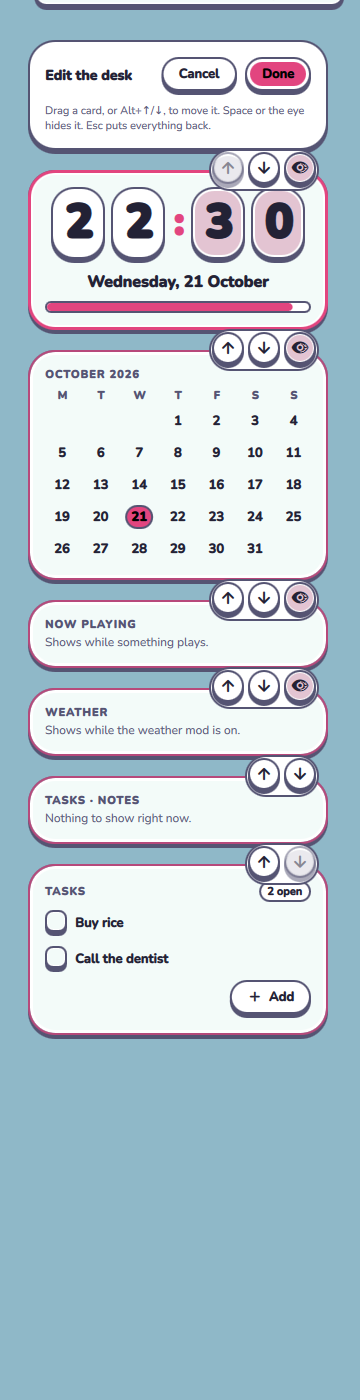
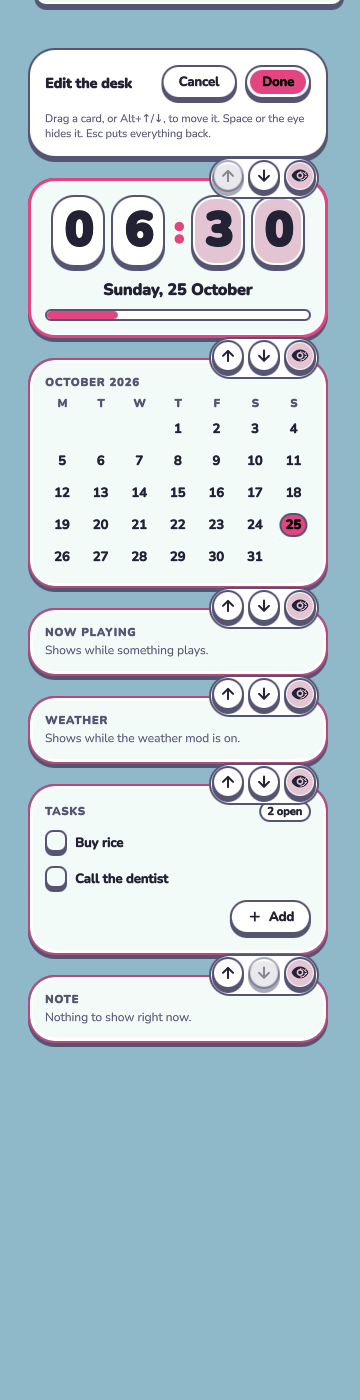
feat(desk): hide any card in edit mode, titles, manifest order, Edit key clear of the clock (I136, I119; K65)
- The eye hides every desk card. A core card writes its own switch (the one Settings shows);
  a mod card writes desktop.hidden. Done sends the order, switches and list as one apply.
  A hidden card keeps its place in edit mode ("Hidden" chip) and is not made outside it (Ma).
- Mod card names come from mod-<id>.desk.<name> (tasks: en and ja).
- A mod's cards follow the manifest's provides order; the qml map sorts its keys.
- The Edit key sits above the first card's padding: it covered the clock's last digit.
- A value forced by managed.toml shows its eye off and says why; a refused save says so.
- ThemeExportStatus: a path under $XDG_CONFIG_HOME outside $HOME reads $XDG_CONFIG_HOME/.
- test-desk.sh: hidden cards by Tab and Space, forced, offline, ja titles; 16 checks, both decors.
- Contract rows 395-397 in docs/CONTRACT-CHANGE.md.

Changed region(s): [[0.0611, 0.0307, 0.9167, 0.7679]]

diff --git a/frontend/surfaces/Desktop.qml b/frontend/surfaces/Desktop.qml
@@ -4,7 +4,6 @@ import Quickshell.Wayland
 import "../core"
 import "../components"
 import "../components/island"
-import "../core/mods.js" as Mods
 
 // Desktop widgets (K43; SekaiPop's desk): cards on the bottom layer, under the windows, on one side of each output —
 // the time as four keys with the date and the day's progress, this month with today marked, what is playing (hidden
@@ -14,12 +13,16 @@ import "../core/mods.js" as Mods
 // Ma: no surface while off; the documents are watched only while the surface is shown; nothing animates on its own —
 // the clock changes when svc.clock's minute patch arrives. Content-sized (K16): the window is the column of cards.
 // Mods add cards (K46, row 120: `desk:<name>` → the mod's `qml/desk/<name>.qml`), each loaded only while the desk is
-// shown, at the column's width; a card sets its own implicitHeight (0 when it has nothing to say).
+// shown, at the column's width; a card sets its own implicitHeight (0 when it has nothing to say). A mod's cards follow
+// the manifest's `provides` order: the `qml` map is sorted by key, so it cannot give one (W36).
 // Order (K48 (4)): the column follows `desktop.order` — core ids and `mod:<id>:<name>` — and the cards it does not list
-// come after, core ones first. Edit mode (SekaiPop "Edit Desktop", macOS "Edit Widgets"; docs/ux/desktop.md v3): the
-// "Edit" key on hover lifts the column over the windows with the keyboard, every card shows (a placeholder says when it
-// shows), drag or Alt+Up/Down reorders, the eye (or Space) hides a core card, and Done writes the order and the
-// switches as one `apply` (one undo step); Escape puts everything back. Nothing is written while editing.
+// come after, core ones first. Hidden (K65, W36): a card is left out while its switch is off (core: `desktop.<card>`,
+// the switch Settings shows) or its id is in `desktop.hidden` (a mod card has no switch of its own).
+// Edit mode (SekaiPop "Edit Desktop", macOS "Edit Widgets"; docs/ux/desktop.md v3–v4): the "Edit" key on hover lifts the
+// column over the windows with the keyboard, every card shows (a placeholder says when it shows; a hidden one says
+// "Hidden"), drag or Alt+Up/Down reorders, the eye (or Space) shows or hides any card, and Done writes the order, the
+// switches and the hidden list as one `apply` (one undo step); Escape puts everything back. Nothing is written while
+// editing.
 PanelWindow {
     id: desk
     required property var modelData
@@ -44,18 +47,23 @@ PanelWindow {
     exclusionMode: ExclusionMode.Ignore
     color: "transparent"
     anchors { top: true; left: desk.onLeft; right: !desk.onLeft }
+    // The Edit key sits above the first card's padding, its bottom 2 px above the keycaps' top (they start at the padding),
+    // so it covers no content of the clock's keys (W36). The window starts `keyLift` above the cards; the cards keep 28 px
+    // under the bar, or the key's clearance from the bar when that is more.
+    readonly property int keyLift: Math.max(0, editKey.height - Theme.pad + 2)
+    readonly property int colTop: Math.max(28, keyLift + 8)
     margins {
-        top: (bars.atTop ? Theme.barH : 0) + 28
+        top: (bars.atTop ? Theme.barH : 0) + colTop - keyLift
         left: (bars.enabled && bars.edge === "left" ? Theme.barH : 0) + 32
         right: (bars.atRight ? Theme.barH : 0) + 32
     }
     implicitWidth: cards.width
-    implicitHeight: Math.max(1, cards.height)
+    implicitHeight: Math.max(1, cards.height + keyLift)
     onOnChanged: if (!on) cancelEdit()
 
     Watch { doc: "svc.clock"; active: desk.visible }
-    Watch { doc: "svc.media"; active: desk.visible && (desk.want("media") || desk.editing) }
-    Watch { doc: "mod.weather"; active: desk.visible && (desk.want("weather") || desk.editing) && desk.weatherMod }
+    Watch { doc: "svc.media"; active: desk.visible && (desk.showsNow("media") || desk.editing) }
+    Watch { doc: "mod.weather"; active: desk.visible && (desk.showsNow("weather") || desk.editing) && desk.weatherMod }
     Watch { doc: "mods"; active: desk.visible }
     readonly property var clock: Store.docs["svc.clock"] || ({})
     readonly property var media: Store.docs["svc.media"] || ({})
@@ -72,13 +80,27 @@ PanelWindow {
         for (var i = 0; i < m.length; i++) if (m[i].id === id) return I18n.tr(m[i].name || id)
         return id
     }
+    // The desk cards of enabled mods as [{mod, provide, url}] in the manifest's `provides` order (the `qml` map is sorted
+    // by key, so it cannot give that order; the mods document lists `provides` as the manifest does). A card with no file
+    // is not listed.
+    function deskCardsOf(doc) {
+        var out = []
+        var list = (doc && doc.mods) || []
+        for (var i = 0; i < list.length; i++) {
+            var m = list[i], q = m.qml || ({}), p = m.provides || []
+            for (var j = 0; j < p.length; j++)
+                if (String(p[j]).indexOf("desk:") === 0 && typeof q[p[j]] === "string" && q[p[j]] !== "")
+                    out.push({ mod: m.id, provide: p[j], url: q[p[j]] })
+        }
+        return out
+    }
 
     // The desk cards of enabled mods as [{id: "mod:<mod>:<name>", url, mod}]. The list is rebuilt only when the URLs
     // change: the `mods` document also changes when a mod starts or stops running (a card's own subscription does that),
     // and a new list would remake every card, which would unsubscribe and resubscribe it, without end.
     readonly property var modsDoc: Store.docs["mods"]
     readonly property string deskKey: desk.visible
-        ? JSON.stringify(Mods.deskCards(desk.modsDoc).map(function (c) {
+        ? JSON.stringify(desk.deskCardsOf(desk.modsDoc).map(function (c) {
             return { id: "mod:" + c.mod + ":" + c.provide.substring(5), url: c.url, mod: c.mod }
         })) : "[]"
     property var modCards: []
@@ -128,13 +150,26 @@ PanelWindow {
     // A layer above the user's (Nix, a forced value) holds the order: edit mode says so and moves nothing (Shōjiki).
     readonly property bool orderLocked: !!orderProv && (!!orderProv.forced_by || (orderProv.source || {}).kind === "forced"
                                                         || (orderProv.source || {}).kind === "nix")
+    // Hidden (K65): a listed id is left out whatever its switch says. A mod card has no switch, so the list is its only
+    // hide; a core card keeps its switch (the one Settings shows), and the list may name it as well.
+    readonly property var hiddenList: { var h = bars.valueOf("desktop.hidden", []); return Array.isArray(h) ? h : [] }
+    function hiddenIn(id) {
+        if (hiddenList.indexOf(id) >= 0) return true
+        return id.indexOf("mod:") !== 0 && !want(id)
+    }
+    // What the desk shows now, not the staged edit: the watches and the loaders follow it (a hidden card is not made).
+    function showsNow(id) { return !hiddenIn(id) }
+    // The eye is locked when a layer above the user sets what it writes: the card's switch, or the list for a mod card.
     function switchLocked(id) {
-        var p = bars.entry("desktop." + id)
+        var p = bars.entry(id.indexOf("mod:") === 0 ? "desktop.hidden" : "desktop." + id)
         return !!p && (!!p.forced_by || (p.source || {}).kind === "forced" || (p.source || {}).kind === "nix")
     }
+    readonly property bool anySwitchLocked: {
+        for (var i = 0; i < available.length; i++) if (switchLocked(available[i])) return true
+        return false
+    }
     function shown(id) {
-        if (id.indexOf("mod:") === 0) return true
-        return editing && staged[id] !== undefined ? staged[id] : want(id)
+        return editing && staged[id] !== undefined ? staged[id] : !hiddenIn(id)
     }
     function startEdit() {
         if (editing) return
@@ -146,13 +181,15 @@ PanelWindow {
     }
     function cancelEdit() {
         if (!editing) return
+        // The focus leaves the card first: a card with the focus cannot drop out of the Tab order (Qt warns).
+        root.forceActiveFocus()
         editing = false
         staged = ({})
         editError = ""
         sync()
     }
     function toggleShown(id) {
-        if (id.indexOf("mod:") === 0 || switchLocked(id)) return
+        if (switchLocked(id)) return
         var s = Object.assign({}, staged)
         s[id] = !shown(id)
         staged = s
@@ -168,12 +205,23 @@ PanelWindow {
         var ids = modelIds()
         if (!orderLocked && JSON.stringify(ids) !== JSON.stringify(arrange(configOrder)))
             ops.push({ set: "desktop.order", value: ids })
-        for (var id in staged)
-            if (staged[id] !== want(id)) ops.push({ set: "desktop." + id, value: staged[id] })
+        // A core card's switch is its own key; a mod card's hide is its entry in the list. The list goes out once, in the
+        // same apply, so one undo puts it back with the rest.
+        var hidden = hiddenList.slice()
+        var listed = false
+        for (var id in staged) {
+            var s = staged[id]
+            var mod = id.indexOf("mod:") === 0
+            if (!mod && s !== want(id)) ops.push({ set: "desktop." + id, value: s })
+            var at = hidden.indexOf(id)
+            if (s && at >= 0) { hidden.splice(at, 1); listed = true }
+            else if (!s && at < 0 && mod) { hidden.push(id); listed = true }
+        }
+        if (listed) ops.push({ set: "desktop.hidden", value: hidden })
         if (ops.length === 0) { cancelEdit(); return }
         editError = ""
         Store.apply(ops, function (errors) {
-            if (!errors) { editing = false; staged = ({}); return }
+            if (!errors) { root.forceActiveFocus(); editing = false; staged = ({}); return }
             var c = errors.length ? (errors[0].code || "") : ""
             editError = c === "disconnected" ? I18n.tr("frontend.desktop.edit.disconnected")
                 : I18n.tr("frontend.desktop.edit.refused") + (c !== "" ? " (" + I18n.tr(c) + ")" : "")
@@ -512,13 +560,14 @@ PanelWindow {
     Item {
         id: root
         width: cards.width
-        height: cards.height
+        height: cards.height + desk.keyLift
         focus: true
         Keys.onEscapePressed: event => { desk.cancelEdit(); event.accepted = true }
         HoverHandler { id: deskHover }
 
         Column {
             id: cards
+            y: desk.keyLift
             width: desk.cardW
             spacing: Theme.pad + 4
             move: Transition {
@@ -570,6 +619,15 @@ PanelWindow {
                                                : I18n.tr("frontend.desktop.edit.hint")
                     }
                     Text {
+                        visible: desk.anySwitchLocked
+                        width: parent.width
+                        wrapMode: Text.WordWrap
+                        color: Theme.dim
+                        font.pixelSize: Theme.fs - 2
+                        font.family: Theme.fam(text, Theme.families)
+                        text: I18n.tr("frontend.desktop.edit.switch_locked")
+                    }
+                    Text {
                         visible: desk.editError !== ""
                         width: parent.width
                         wrapMode: Text.WordWrap
@@ -593,7 +651,7 @@ PanelWindow {
                     readonly property bool wanted: desk.shown(cid)
                     readonly property bool hasContent: real.item ? real.item.hasContent === true : false
                     readonly property bool showReal: hasContent && (wanted || desk.editing)
-                    readonly property bool locked: !isMod && desk.switchLocked(cid)
+                    readonly property bool locked: desk.switchLocked(cid)
                     // Pointer drag (edit mode): the card follows the pointer; crossing a neighbour's middle moves it there.
                     property bool dragging: false
                     property real grabY: 0
@@ -644,12 +702,14 @@ PanelWindow {
                         event.accepted = true
                     }
 
-                    // The card itself. A mod's card stays loaded while the desk is shown, so it keeps its subscriptions
-                    // (it says itself when it has nothing to show); a core card the user hid is made only while editing.
+                    // The card itself: made while it is shown (a mod's card keeps its subscriptions for as long as it shows, and
+                    // says itself when it has nothing to show) and while editing. A hidden card is not made outside edit mode
+                    // (Ma). In edit mode the card's own controls are out of the Tab order: the card keys are the tab stops.
                     Loader {
                         id: real
-                        active: slot.isMod || slot.wanted || desk.editing
+                        active: slot.wanted || desk.editing
                         visible: slot.showReal
+                        enabled: !desk.editing
                         opacity: slot.wanted ? 1 : 0.45
                         sourceComponent: slot.isMod ? cMod
                             : slot.cid === "clock" ? cClock
@@ -735,7 +795,6 @@ PanelWindow {
                             onClicked: desk.moveCard(slot.index, slot.index + 1)
                         }
                         IconButton {
-                            visible: !slot.isMod
                             icon: slot.wanted ? "visibility" : "visibility_off"; glyph: slot.wanted ? "◉" : "◌"
                             a11y: I18n.tr(slot.wanted ? "frontend.desktop.edit.hide" : "frontend.desktop.edit.show")
                             lit: slot.wanted
@@ -770,14 +829,14 @@ PanelWindow {
             }
         }
 
-        // The way in: a small key on the column's corner while the pointer is over the desk (or Tab reaches it).
+        // The way in: a key above the column's first card while the pointer is over the desk (or Tab reaches it). Above the
+        // card's padding, it covers no card content (W36: it used to sit over the clock's last digit).
         Button {
             id: editKey
             objectName: "desk-edit"
             visible: !desk.editing && (deskHover.hovered || editKey.activeFocus)
             anchors.top: parent.top
             anchors.right: parent.right
-            anchors.topMargin: Theme.gap
             anchors.rightMargin: Theme.gap
             icon: "edit"
             label: I18n.tr("frontend.desktop.edit.start")

diff --git a/settings/components/ThemeExportStatus.qml b/settings/components/ThemeExportStatus.qml
@@ -30,7 +30,15 @@ Column {
     // Copies by row (an app's include is keyed by the app's name, its lines by `name#index`): the line copied, or {error}.
     property var copied: ({})
     readonly property string home: Quickshell.env("HOME") || ""
-    function tilde(p) { return ex.home !== "" && String(p).indexOf(ex.home + "/") === 0 ? "~" + String(p).substring(ex.home.length) : String(p) }
+    readonly property string xdg: Quickshell.env("XDG_CONFIG_HOME") || ""
+    // Under $HOME a path reads `~/…`. Under $XDG_CONFIG_HOME (when that lies outside $HOME) it reads `$XDG_CONFIG_HOME/…`:
+    // a `~` there would name the wrong folder (W36).
+    function tilde(p) {
+        var s = String(p)
+        if (ex.home !== "" && s.indexOf(ex.home + "/") === 0) return "~" + s.substring(ex.home.length)
+        if (ex.xdg !== "" && s.indexOf(ex.xdg + "/") === 0) return "$XDG_CONFIG_HOME" + s.substring(ex.xdg.length)
+        return s
+    }
     function appName(n) { return I18n.has("config.choice.export." + n) ? I18n.tr("config.choice.export." + n) : n }
     function setList(v) { return Array.isArray(v) ? v.join(", ") : "" }
     // The rows of an app: its include (when it has one), then its lines.

diff --git a/docs/ux/desktop.md b/docs/ux/desktop.md
@@ -67,5 +67,44 @@ References: **SekaiPop** "Edit Desktop" (Super+Shift+E: a full-screen editor, dr
   is off.
 - **Multi-output**: each output's desk has its own edit mode; the order is global, so the other outputs follow on Done.
 - Shots: `frontend/shots/desk/{ordered,edit,edit-moved,saved}-{sekai,none}.png` (`frontend/test-desk.sh`).
-- Not yet: per-card hide for mod cards (needs a key, backlog); free placement and sizes (SekaiPop); a "+" shelf for cards
-  of mods that are off.
+- Not yet (v3): free placement and sizes (SekaiPop); a "+" shelf for cards of mods that are off. Per-card hide for mod
+  cards came in v4.
+
+## v4 — hidden cards for every card, titles, order, the Edit key (W36; K65 `desktop.hidden`; I136, I119)
+- **Hidden.** Every card has an eye in edit mode (Space on the card or on its eye does the same). A core card's eye writes
+  its own switch (`desktop.<card>`, the one Settings shows). A mod card has no switch, so its eye writes `desktop.hidden`
+  (K65). The desk leaves out a card whose switch is off or whose id is listed in `desktop.hidden` (a core id may be listed
+  by hand too). Done writes the order, the switches and the list as ONE apply: one undo puts all of it back; Escape writes
+  nothing.
+- **Hidden, shown in place.** A hidden card takes no room outside edit mode, and it is not made: a mod card's documents are
+  not watched (Ma). In edit mode it keeps its place, with a "Hidden" chip (words, not dimming alone): dimmed content when
+  it has some, else its placeholder, which says when it shows.
+- **Set above the user (Shōjiki).** When a layer above the user (Nix) forces a card's switch, or the list for a mod card,
+  that card's eye is off, and the edit bar says why in words: "Some of these are set above your config (Nix): their eyes
+  are off."
+- **Titles.** A mod card's name (placeholder, accessible name) is `mod-<id>.desk.<name>` in en and ja (the tasks mod:
+  "Tasks" / "タスク", "Note" / "メモ", in `i18n/*/mod-tasks.toml`). Without a key it is the manifest name, followed by the
+  card's name when that differs from the mod's id. A card with content draws its own caption, which the mod translates.
+- **Order.** A mod's cards follow the manifest's `provides` order, which the mods document carries. The `qml` map is sorted
+  by key, so it cannot give the order; the note used to sit above the list.
+- **Edit key.** On hover, above the first card: its bottom sits 2 px above the keycaps, which start at the card's padding, so
+  it covers no content (it used to cover the clock's last digit). The first card sits 28 px under the bar; where the key
+  is taller (sekai) 36 px, so the key keeps 8 px from the bar.
+- **Keyboard.** In edit mode the cards' own controls (the tasks checkbox, "+ Add") are out of the Tab order: each card's
+  keys are the stops (up, down, eye). Space toggles, Alt+Up/Down moves, Up/Down move the focus. Return is Done from a card;
+  from a focused card key Return presses that key (the Button convention), so Done is also a Tab stop, and Escape always
+  cancels.
+- **Shots:** `frontend/shots/desk/{ordered,hover,edit,edit-moved,saved,hidden-edit,hidden-desk,forced-edit,offline-edit,ja-hover,ja-edit}-{sekai,none}.png`
+  (`frontend/test-desk.sh`). `forced-edit`: a value forced by `managed.toml` (the eye is off, the bar says why);
+  `offline-edit`: kurashid stopped, Done refused, the bar says the save did not happen.
+- **Definition of done (v4, W36).** Met, by `frontend/test-desk.sh` (16 checks, both decors) or the shots named above:
+  hide and show for every card, staged, one apply, one undo; hidden cards left out of the desk and "Hidden" in edit mode;
+  Tab to a card's eye and Space (the clock and the tasks card are driven; the other cards use the same key chain); Escape
+  writes nothing; Return is Done from a card; titles in en and ja; the order of a mod's cards is the manifest's; the Edit
+  key clear of the digits; a forced value shows its eye off and the reason in words; a refused save says so.
+  Not met, or not checked: the eyes of the other four cards are not driven by a test; ThemeExportStatus's `~` change has
+  code only (no test or shot); the hidden mod card's loader is not made outside edit mode by construction (Ma), not
+  measured; the screen-reader names are in the code, not checked with a reader; no multi-output run; no all-hidden desk shot.
+- **Not yet:** Return on a focused card key presses that key, not Done (the shared Button and IconButton take Return first;
+  fixing it means a change in `components/`); titles of third-party mods (contract row 397); the `provides` order as a
+  documented contract (row 396).

diff --git a/docs/CONTRACT-CHANGE.md b/docs/CONTRACT-CHANGE.md
@@ -219,3 +219,6 @@ schema types). They append a request here; the lead decides, implements, and rec
 | 363 | 2026-10-22 | W34-morph-sidebar | `frontend/surfaces/Bar.qml` (the strip's rule; W34-morph-stage / lead) | Leave the bar's rule out where an open sidebar joins it: `SidebarGeom.openingOf(outName)` (`components/sidebar/SidebarGeom.qml`, singleton, already published by Sidebar.qml) gives `{edge, from, to}` — the span along the bar's edge in px from its start (left end; top end for a side bar) — only while the column stands at rest under or beside a ruled strip (line chrome); null otherwise. Gap the rule rectangles (and the pen rule's path) over `from..to` as for `IslandGeom.openL/R`. | Under washi/kami the bar's rule still runs across the column's top, so bar and column read as two sheets; the column's outline already runs round its fillet concentrically into the rule's end at `from`/`to` (ColumnShape `ruled`), so the gap closes the seam. || ✅ done (lead): Bar.qml draws its rule as segments, leaving out the island opening and the sidebar span |
 | 364 | 2026-10-22 | W34-morph-sidebar | anchor registry (W34-morph-stage) | A read API for the sidebar buttons' rects per output (`sidebar-button:left/right`), in output coordinates. Sidebar.qml now computes the button's place at the bar's end from Bar.qml's layout (`Theme.pad` + the group inset, `Theme.barH` square) as its origin; with the registry it reads the real rect (and grows from the bar's corner when no button is shown). | One origin source instead of a mirrored layout rule; survives Bar layout changes. | |
 | 374 | 2026-10-25 | W35-webdock-polish (I91) | `kurashi-mod-api` `Settings` (the mod's settings feed) and kurashid `native.rs` (`setting_value`, `feed`), plus `mod.webdock` (MODS.md "Web dock", `fixtures/ipc/server/snap_mod_webdock.json`, frozen) | Provenance per setting key: `Settings::forced_by(key) -> Option<&str>`, fed from the config store's `forced_by` (Nix or the compositor forces the key), so a mod can say which of its settings are forced. `mod.webdock` gains `forced: { <setting>: "<source>" }`, emitted only when non-empty (the fixture's "absent keys, no nulls" stays valid); the webdock mod publishes `forced.pinned`, and `forced_by` on each pin when `pins` is forced (the pins are one setting) | I91: the strip's pin-dock toggle must be inert with its reason when Nix sets `mods.webdock.pinned` (rule 2). Today nothing is forced, because the feed carries no provenance: the Rust side (`Dock::with_forced`, fed by the stand-in `forced_of` in lib.rs) and the frontend (`DockWindow` → `pinForced`, the reason in the toggle's accessible name) are wired and tested; only the hook is missing | |
+| 395 | 2026-10-25 | W36-desk (I136, I119) | `desktop.hidden` (`crates/kurashi-schema` `Desktop`, K65) | Ratify where a desk card's eye writes. Built as: a core card's eye writes its own switch (`desktop.clock`, `calendar`, `media`, `weather`, as K48 and Settings show it); a mod card has no switch, so its eye writes `desktop.hidden`. The desk honours a core id written into the list by hand too. The W36 card's first wording (every eye writes the list) would need Settings' core switches to read the list as well. | Two switches for one card would disagree: Settings says "Now playing: on" while the desk hides it (Shōjiki). One write target per card keeps both honest. | |
+| 396 | 2026-10-25 | W36-desk (I119) | `docs/PROTOCOL.md` §5, the `mods` document | Say that `mods[].provides` is the manifest's order and that the `qml` map carries no order (its keys are sorted). The desk orders a mod's cards by `provides` (the fixture `fixtures/ipc/server/snap_mods.json` already carries it). No shape change. | The tasks mod's note sat above its list because the `qml` map sorts `desk:notes` before `desk:tasks`; the contract does not say which field is the order. | |
+| 397 | 2026-10-25 | W36-desk (I136) | mod i18n (`docs/MODS.md`: `i18n/{en,ja}/mod-<id>.toml` in the repo; desk titles `mod-<id>.desk.<name>`) | A mod outside this repo cannot add its desk titles: its strings must live in the repo's `i18n/`. Decide: (a) a desk provide carries its title as an i18n key that the mod's own folder answers, or (b) a mod ships `i18n/<locale>/*.toml` in its folder and kurashid merges them into the `i18n` document. | Only bundled mods can translate their desk titles today. The frontend falls back to the manifest name (plus the card name) until one of these exists. | |
